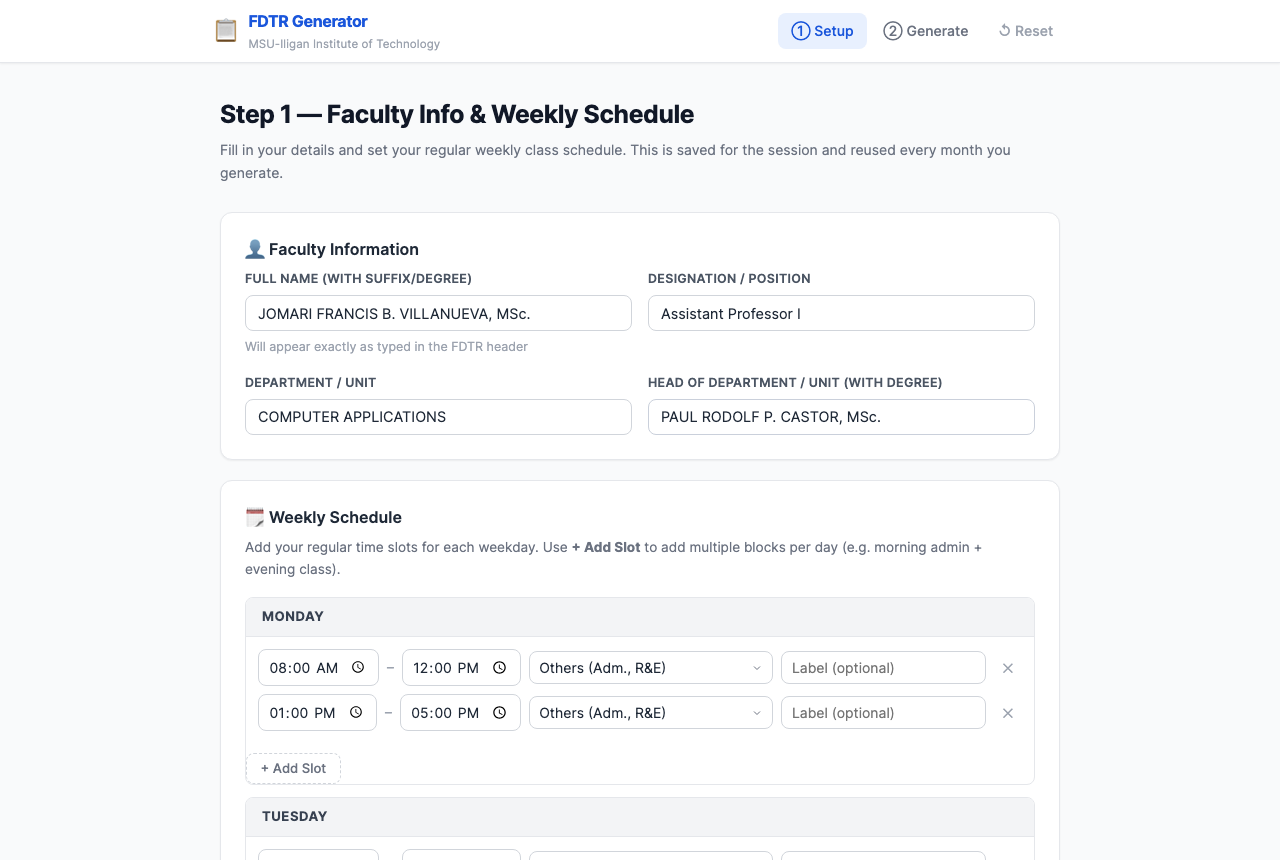
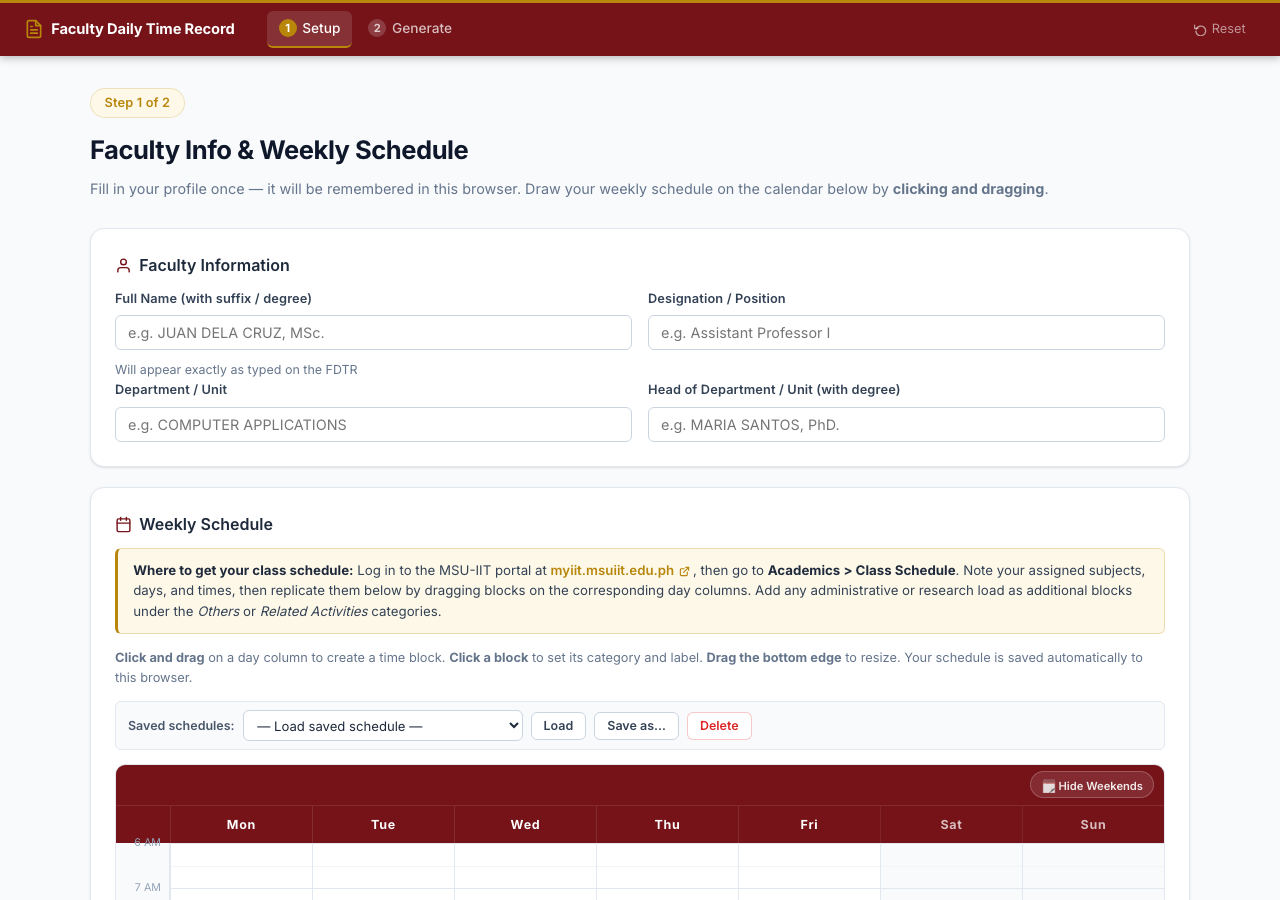
docs: refresh screenshots for v3 MSU-IIT theme
Replace all screenshots with updated captures reflecting the new
maroon/gold color scheme, SVG icons, renamed app title, and portal
callout. Add two new screenshots (calendar widget, generate cards).
Update README image references to match new filenames.

New screenshots:
- 01-setup.png          faculty info card + portal callout
- 02-setup-calendar.png calendar widget with default schedule blocks
- 03-generate-top.png   generate page — month/year + special day cards
- 04-generate-cards.png generate page — leave and travel cards
- 05-preview-top.png    preview — action bar + FDTR table header
- 06-preview-table.png  preview — FDTR table day rows

diff --git a/README.md b/README.md
@@ -57,15 +57,18 @@ Fill in your profile once, then generate a correctly-formatted FDTR Excel file f
 ## 📸 Screenshots
 
 ### Step 1 — Faculty Profile & Weekly Schedule
-![Setup page](docs/screenshots/01-setup.png)
+![Setup page — faculty info and portal callout](docs/screenshots/01-setup.png)
 
-### Step 2 — Configure Month, Holidays & Special Days
-![Generate page – filled](docs/screenshots/03-generate-filled.png)
+### Step 1 — Weekly Schedule Calendar
+![Setup page — calendar widget with schedule blocks](docs/screenshots/02-setup-calendar.png)
+
+### Step 2 — Generate Monthly Record
+![Generate page — month selection and special day cards](docs/screenshots/03-generate-top.png)
 
 ### Step 3 — Preview Before Downloading
-![Preview page – top](docs/screenshots/04-preview-top.png)
+![Preview page — action bar and FDTR table header](docs/screenshots/05-preview-top.png)
 
-![Preview page – mid (showing holiday row)](docs/screenshots/05-preview-mid.png)
+![Preview page — FDTR table showing day rows](docs/screenshots/06-preview-table.png)
 
 ---
 
